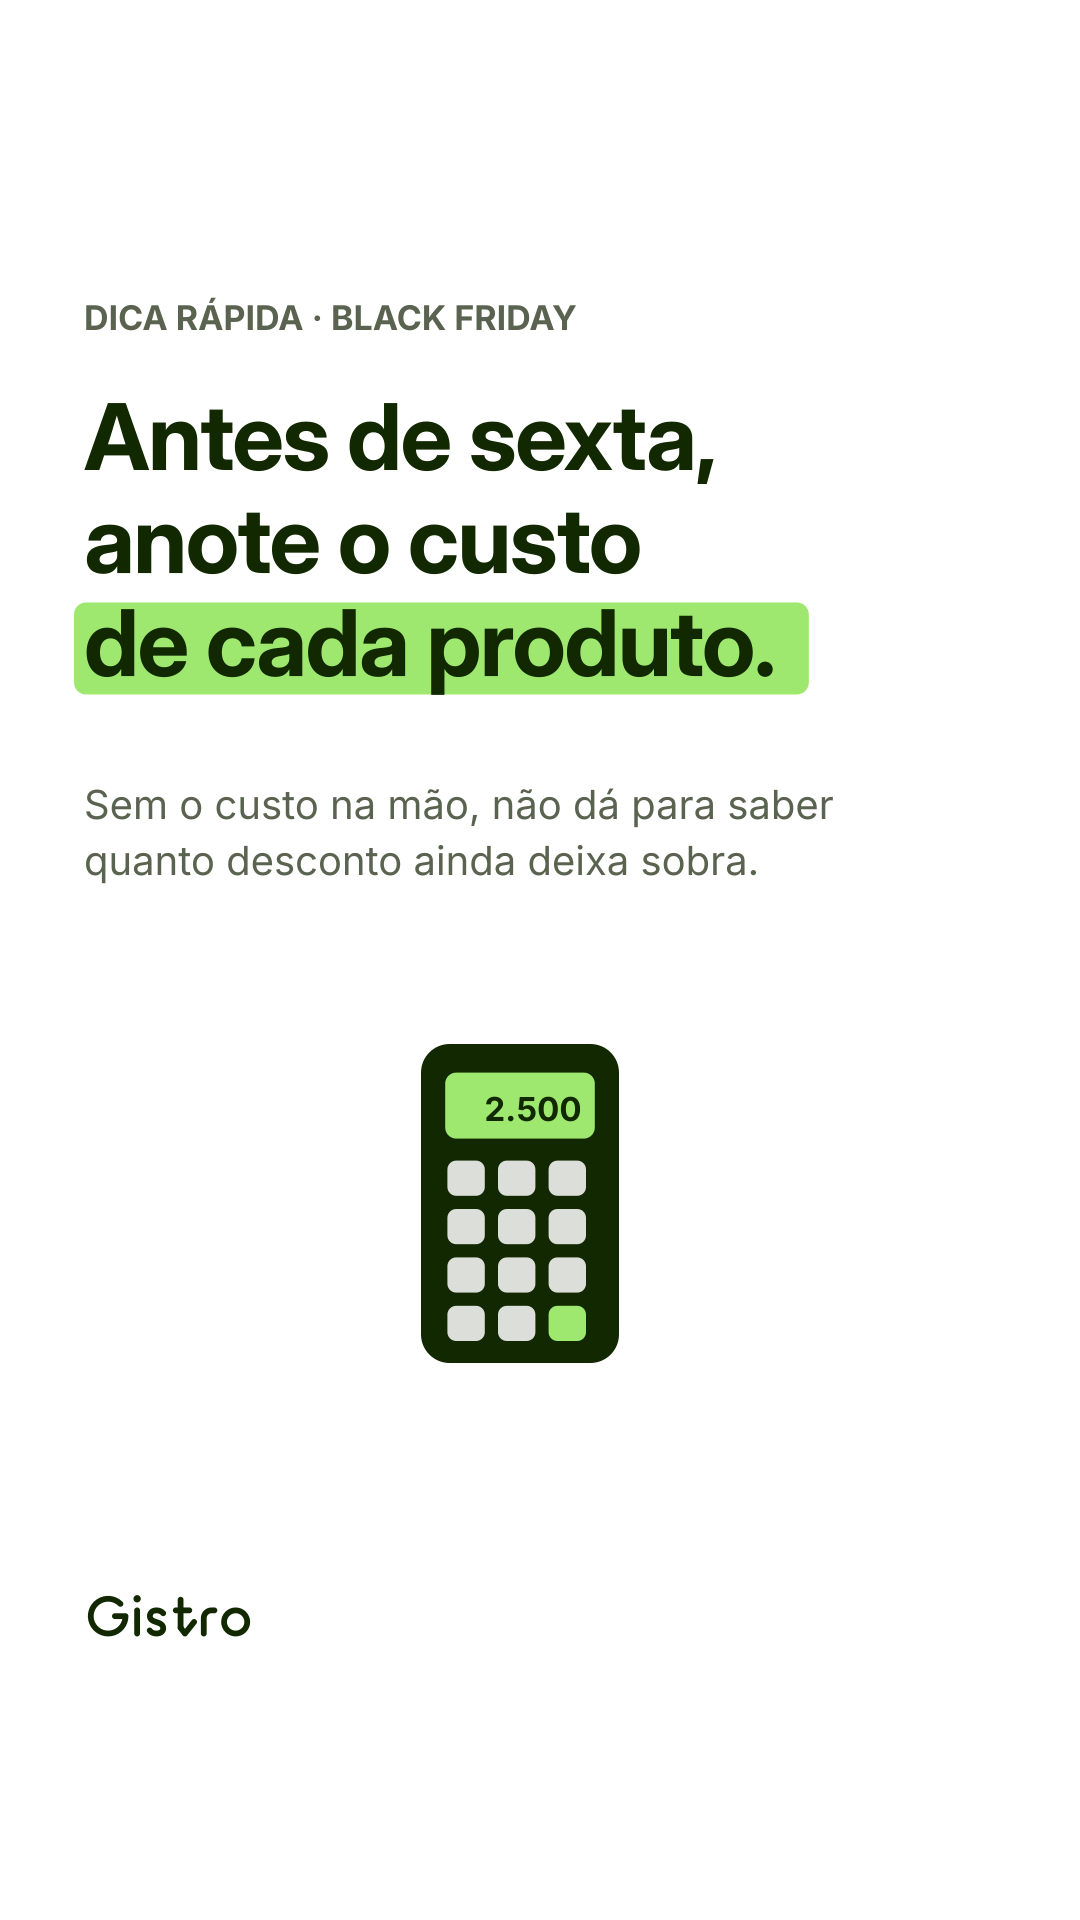
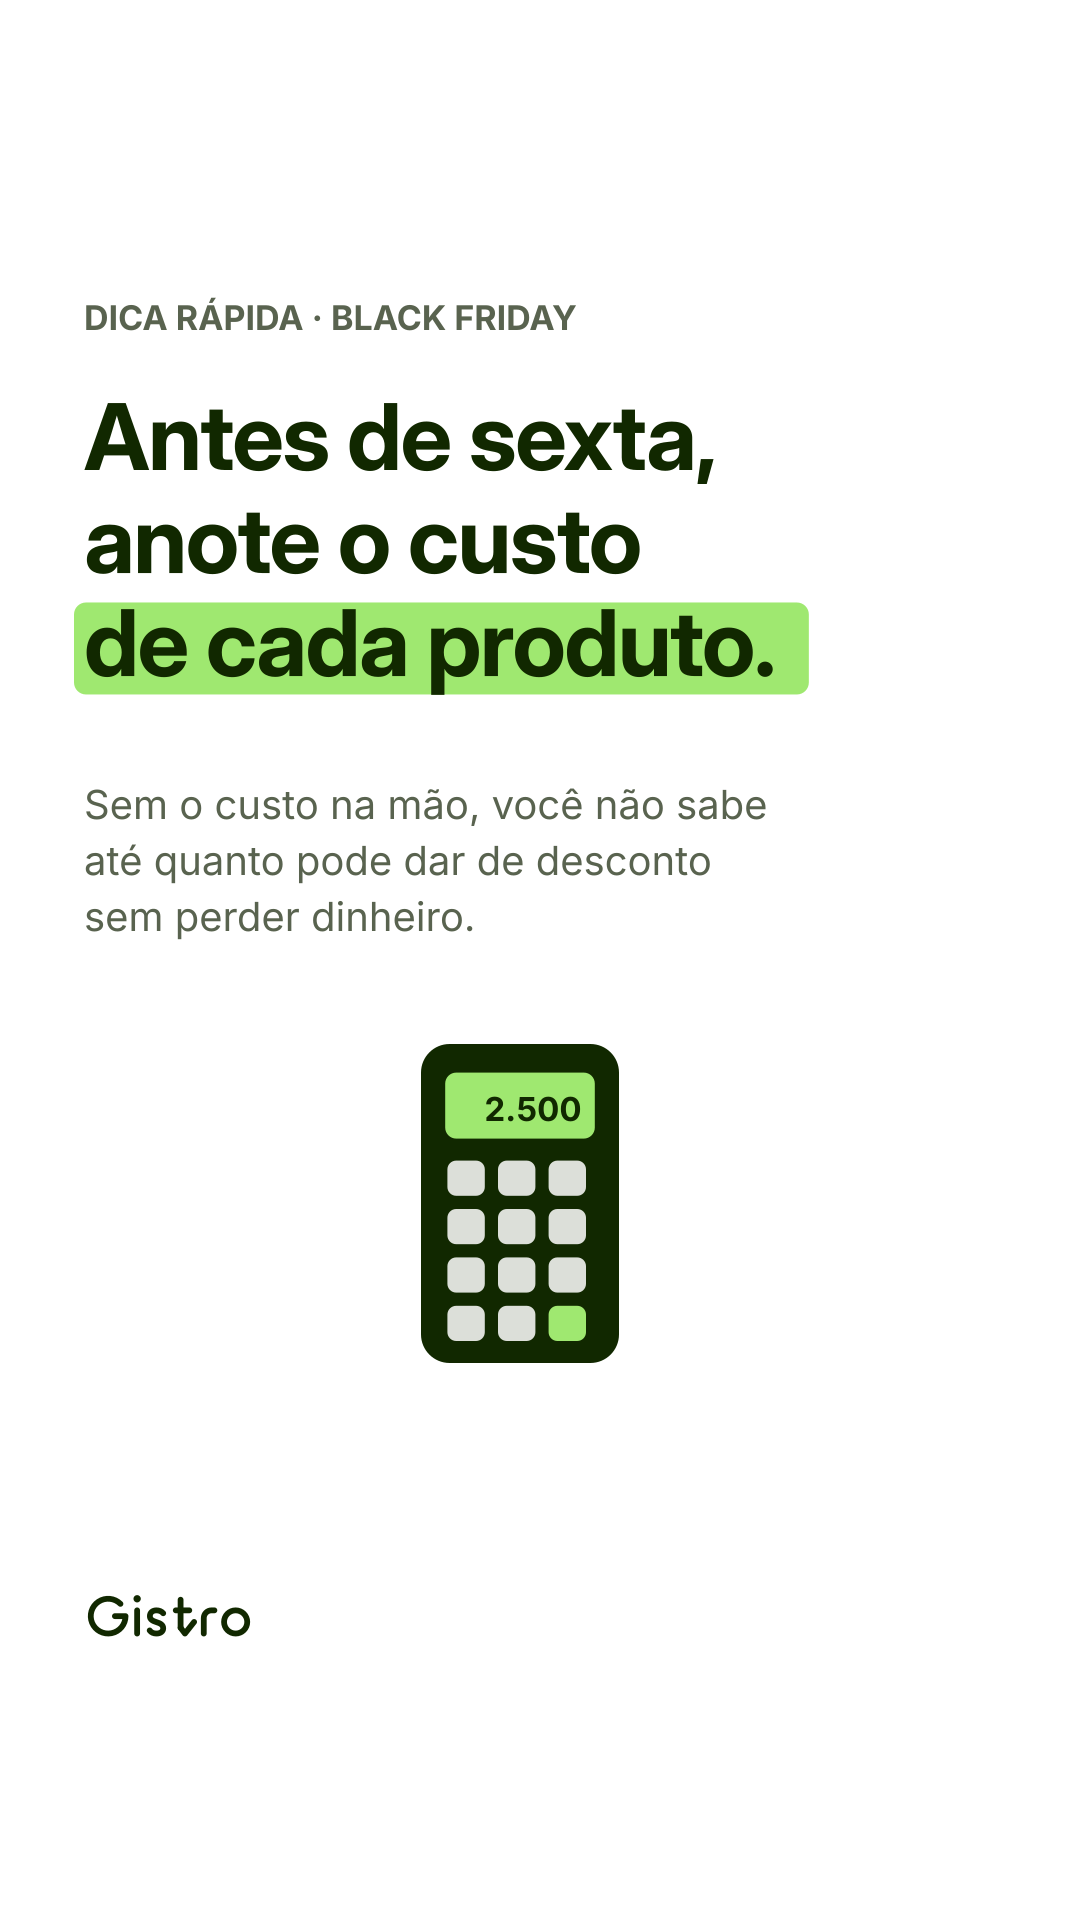
Story de quarta: frase do desconto reescrita
Claude-Session: https://claude.ai/code/session_01LmXHifE9A15j6TCQ916Wt6

Changed region(s): [[0.0917, 0.4062, 0.7639, 0.5]]

diff --git a/semanas/2026-11-23/stories_extras.py b/semanas/2026-11-23/stories_extras.py
@@ -4,7 +4,7 @@ from stories_modelos import *
 D = 'semanas/2026-11-23/'
 # Quarta 09:30 — dica para a Black Friday
 salvar_story(dica('Dica rápida · Black Friday', ['Antes de sexta,', 'anote o custo', 'de cada produto.'], 2,
-    ['Sem o custo na mão, não dá para saber', 'quanto desconto ainda deixa sobra.'],
+    ['Sem o custo na mão, você não sabe', 'até quanto pode dar de desconto', 'sem perder dinheiro.'],
     objeto('calculadora', 300, 1000, 1.1)), D + 'story-extra-qua-1.png')
 # Quarta 18:30 — bastidores: lista de compras
 salvar_story(bastidores(['A lista de compras', 'se monta sozinha.'], 1, 'telas/lista-de-compras.png',
